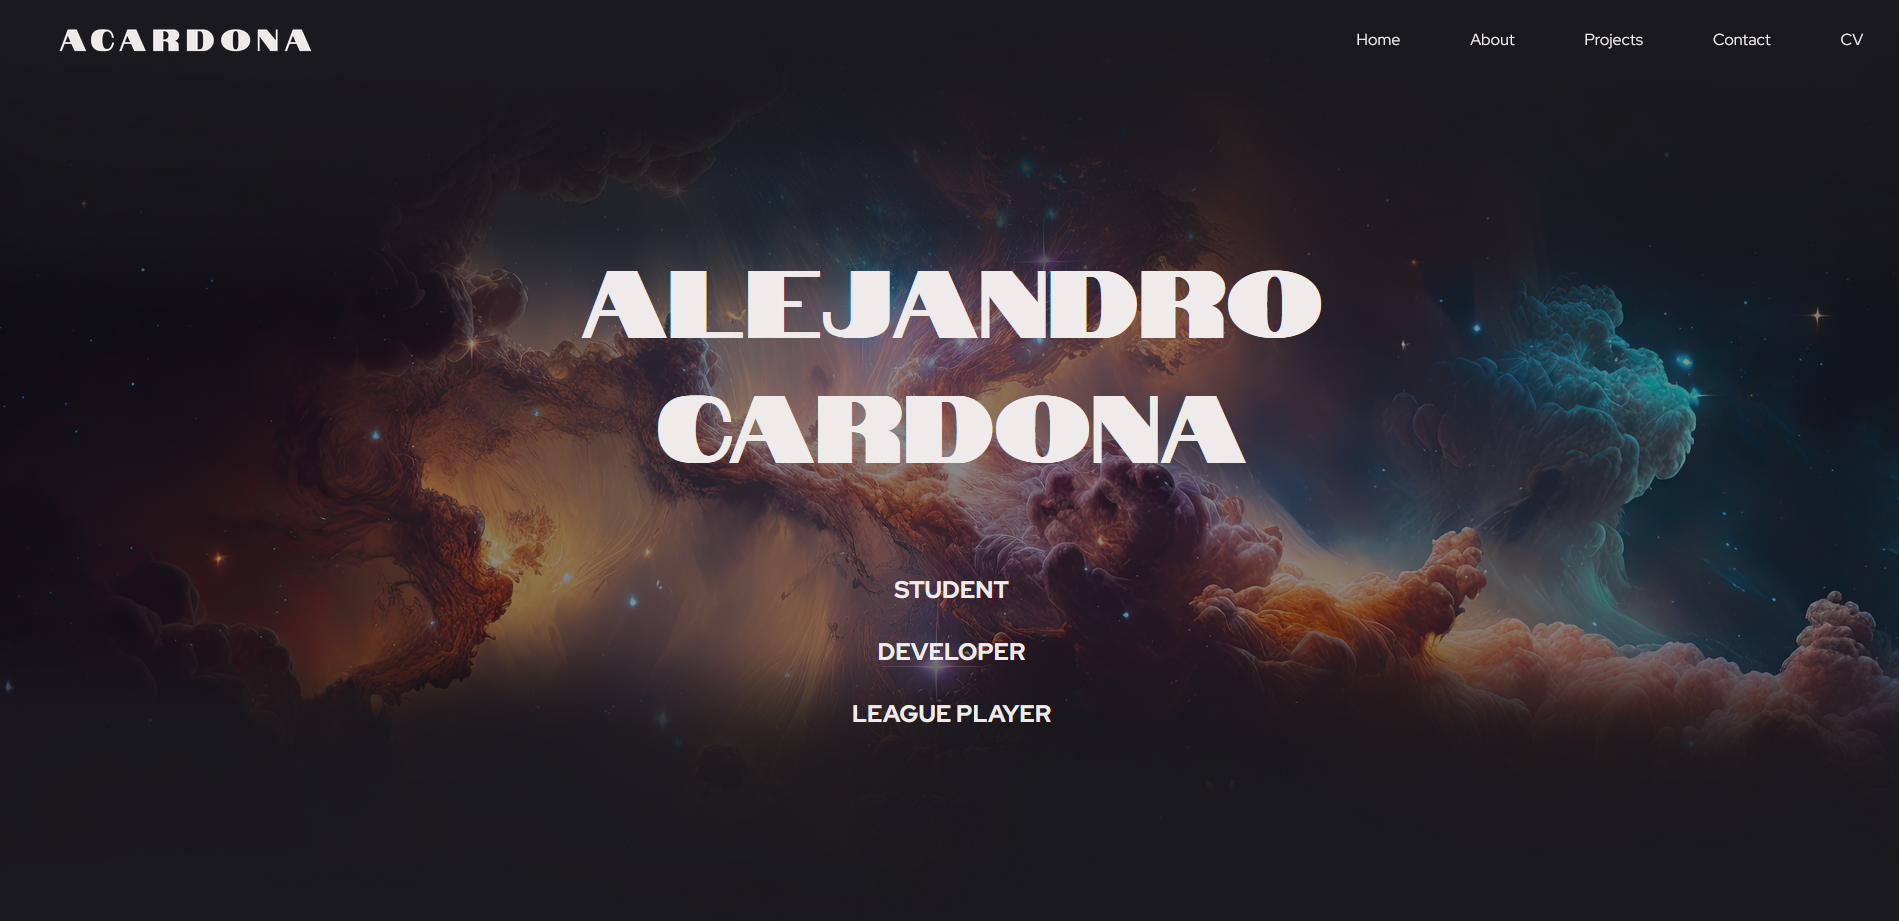
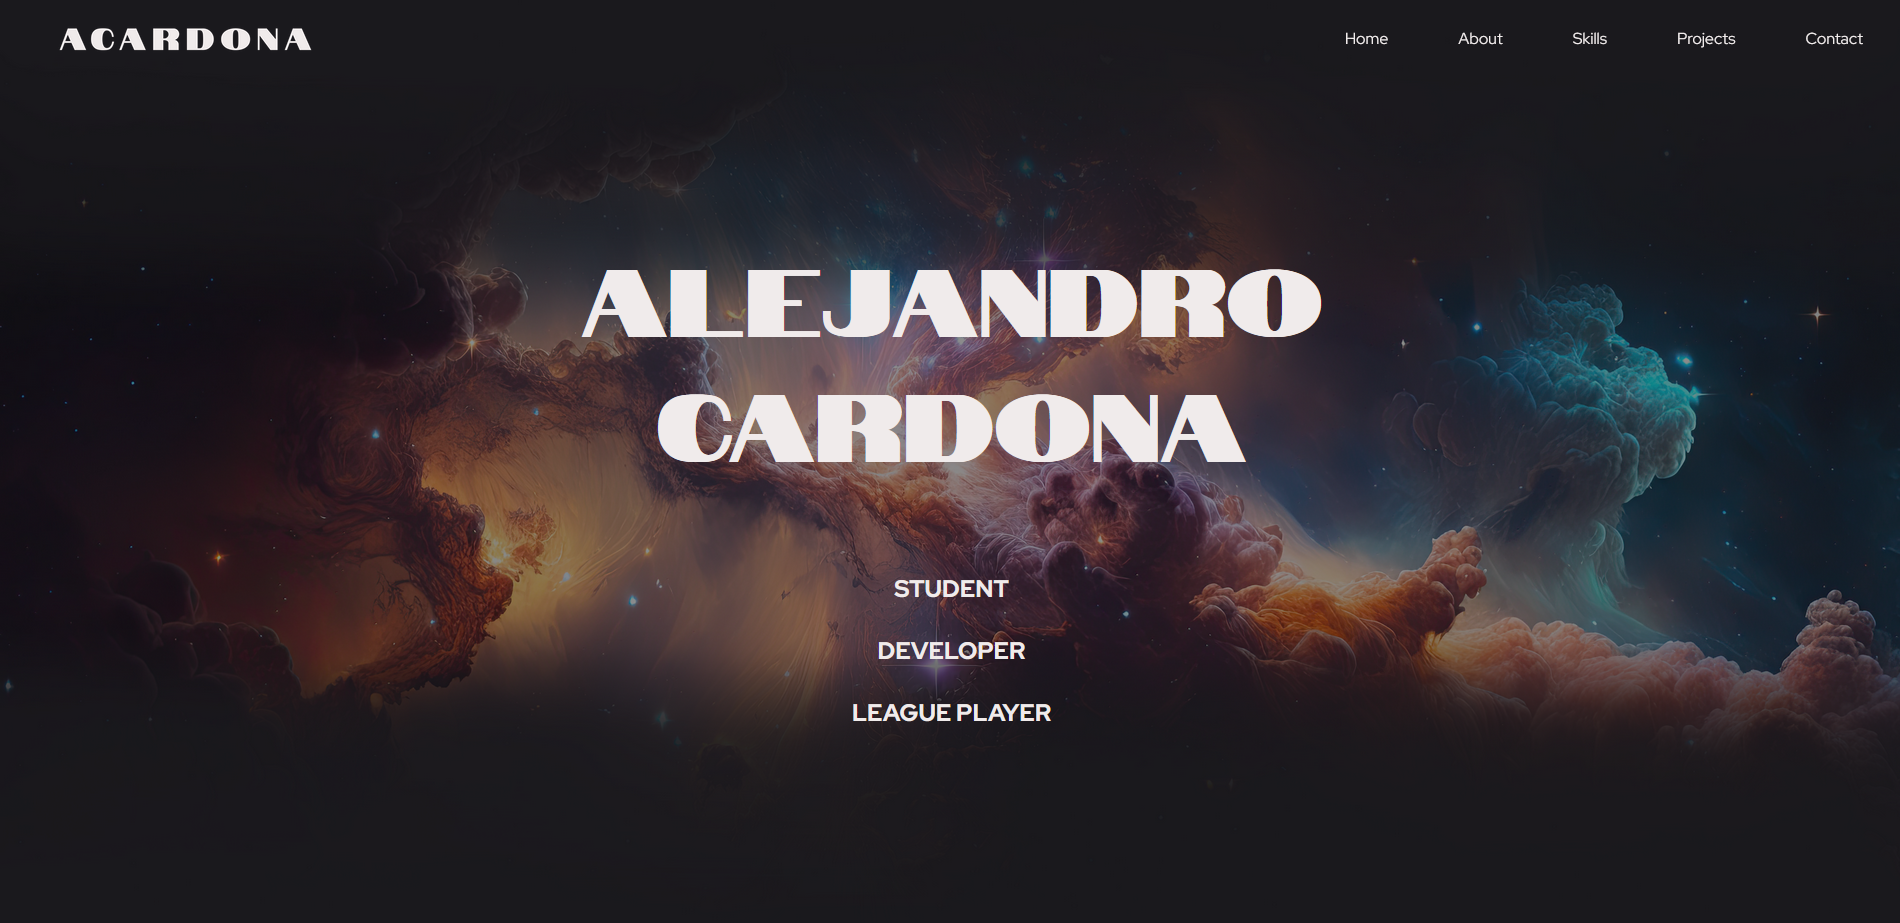
Updated navigation bar and footer.

diff --git a/index.html b/index.html
@@ -17,9 +17,9 @@
             <ul>
                 <li><a href="#home">Home</a></li>
                 <li><a href="#about">About</a></li>
+                <li><a href="#skills">Skills</a></li>
                 <li><a href="#projects">Projects</a></li>
                 <li><a href="#contact">Contact</a></li>
-                <li><a href="./img/Alejandro Cardona Resume-2023.pdf" target="_blank">CV</a></li>
             </ul>
         </div>
     </nav>
@@ -241,12 +241,13 @@
             <div class="contact-details-2">
                 <br>
                 <a>alejandrocqvd@gmail.com</a><br><br>
+                <a href="./img/Alejandro Cardona Resume-2023.pdf" target="_blank">CV</a><br><br>
                 <a href="https://github.com/alejandrocqvd" target="_blank">Github</a><br><br>
                 <a href="https://www.linkedin.com/in/alejandro-cardona-023282264" target="_blank">LinkedIn</a><br><br>
                 <a href="https://www.instagram.com/alejandrocqvd/" target="_blank">Instagram</a><br>
             </div>
         </div>
-        <p>{ designed-and-developed-by: alejandroCardona }</p>
+        <p>{ designed-and-developed-by: "Alejandro Cardona" }</p>
     </div>
 </body>
 </html>
